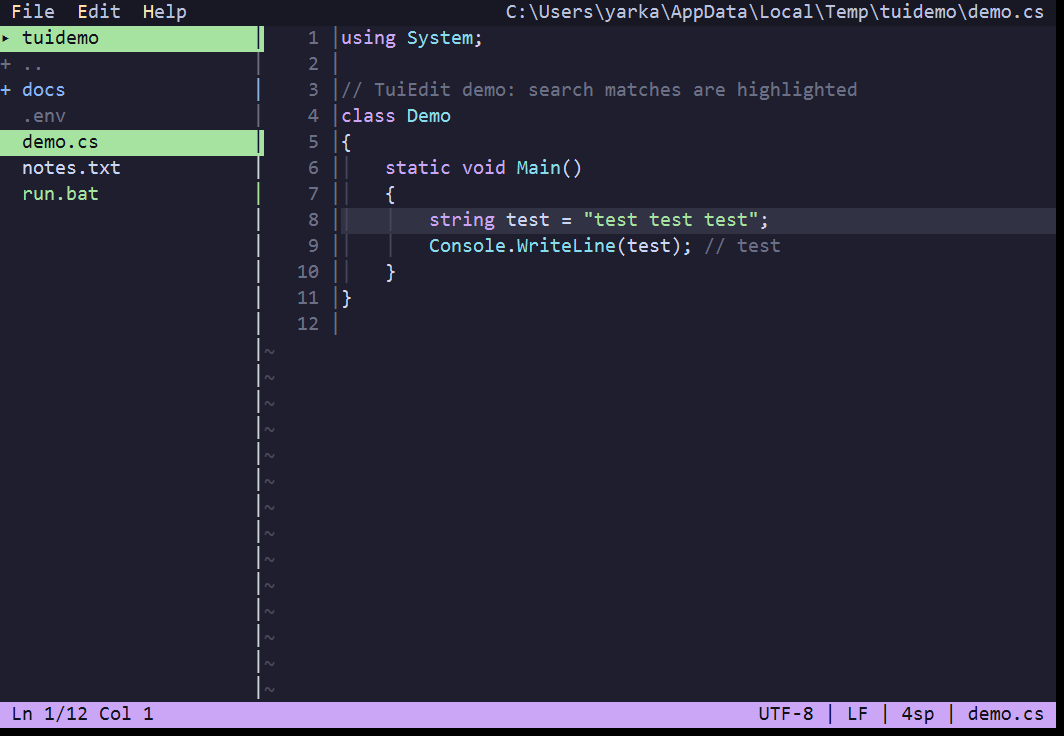
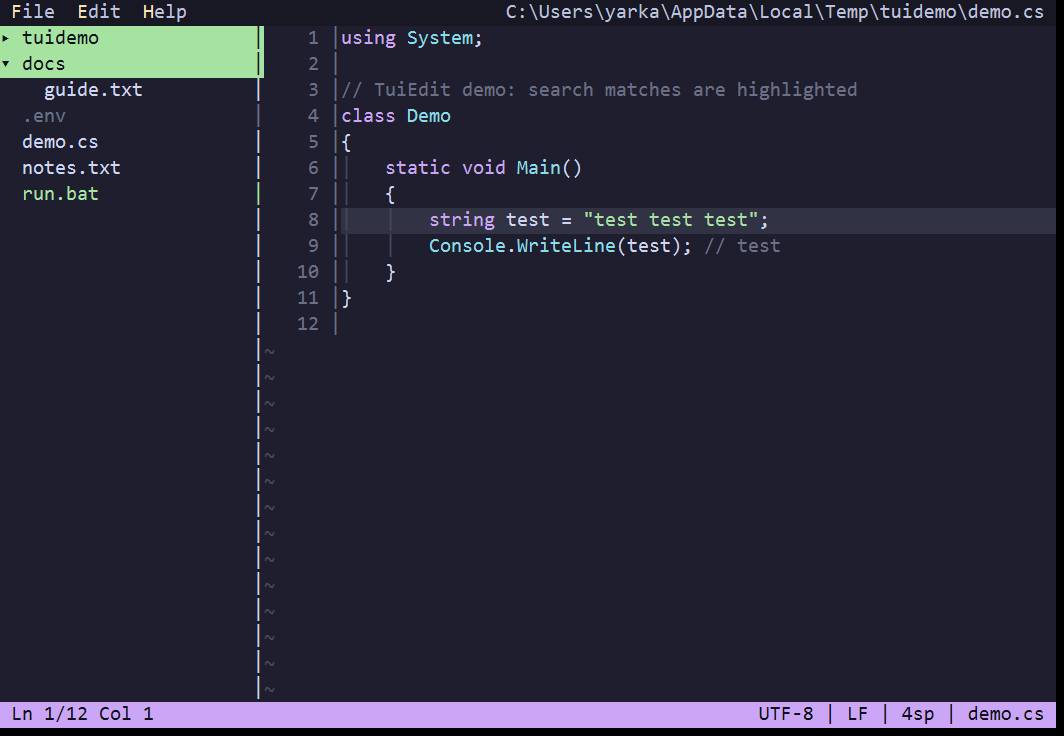
docs(shots): fresh sidebar/replace/palette/prompt frames, README refresh

Changed region(s): [[0.0, 0.0625, 0.2481, 0.2188]]

diff --git a/README.md b/README.md
@@ -8,15 +8,15 @@ See [CHANGELOG.md](CHANGELOG.md) for release history.
 ## Features
 
 - Editing: undo/redo (per keystroke and per block), `Shift+arrows` selection, cut/copy/paste line (`^K`, `^C`, `^U`/`^V`), duplicate (`^D`), toggle line comment (`Ctrl+/`), matching-bracket highlight and jump (`Alt+]`), move lines (`Alt+↑/↓`), word-wise delete/move, trim trailing whitespace, sort lines, auto-pairs for brackets/quotes (toggle in Settings).
-- Find (`^F`, `F3`/`Shift+F3`): live highlight while typing, wrap-around, `k/N` counter, match case / whole words / regex toggles right in the prompt (`Alt+C/W/R`). Instant whole-document replace (`^H`) in a single undo step, with confirmation past 50 matches. Grep across files (`Ctrl+Shift+F`) with jump-to-hit.
+- Find (`^F`, `F3`/`Shift+F3`): live highlight while typing, wrap-around, `k/N` counter, match case / whole words / regex toggles right in the prompt (`Alt+C/W/R`). Instant whole-document replace (`^H`) in a single undo step, with confirmation past 50 matches showing a before/after preview of the first hit. Grep across files (`Ctrl+Shift+F`) with jump-to-hit.
 - Syntax highlighting from JSON grammars (C#, Python, JavaScript/TypeScript, JSON, Markdown, PowerShell, XML, INI built in). On first run the grammars are extracted to the `grammars` folder next to `settings.json` — edit them to customize, drop in your own.
-- File manager for Open/Save as: drives, `..`, file highlight with sizes, overwrite confirmation in a separate window. `F7` new folder, `F8` delete (with confirmation, recursive), `Ctrl+H` hidden files. Name field and Find/Replace/GoTo prompts share one line editor: selection (`Shift`), word-wise motion (`Ctrl+arrows`), word delete (`Ctrl+BS/Del`), `Alt+←/→` navigation in the manager.
+- File manager for Open/Save as: drives, `..`, file highlight with sizes, overwrite confirmation in a separate window. `F7` new folder, `F2` rename, `F8` delete (with confirmation, recursive), `Ctrl+H` hidden files. Name field and Find/Replace/GoTo prompts share one line editor: selection (`Shift`), word-wise motion (`Ctrl+arrows`), word delete (`Ctrl+BS/Del`), `Alt+←/→` navigation in the manager.
 - Format preservation: encoding (UTF-8/BOM/UTF-16), line endings (CRLF/LF/CR) and indent are detected on open and kept on save; all three are switched in the File format dialog (`F9`, shown in the status bar). Read-only files are flagged `[read-only]` and refuse to save.
 - `dark`/`light` themes, `en`/`ru` languages, line numbers (`Alt+N`), word wrap (`Alt+Z`), indent guides, whitespace marks (`Alt+.`), ruler column, git diff gutter, help screen (`F1`).
 - Bookmarks (`F2` toggle, `Shift+F2` next, gutter `●`), indent folding (`Alt+-`), buffer-word completion (`Ctrl+Space`), document stats (`F4`).
-- Optional session restore: reopen the previous tabs with cursor positions when started without arguments (off by default, toggle in Settings).
-- File panel (`Ctrl+B`): fixed-width sidebar with the current folder, arrows to select, `Enter` to open, `Esc` back to text. Entries are color-coded: dirs, `..`, hidden and executables.
-- Tabs: open tab bar (`Ctrl+T` new, `Ctrl+W` close, `Ctrl+PgDn/PgUp` switch, `Alt+1..9,0` jump, `Ctrl+P` list); long rows scroll with the active tab always visible; dirty tabs ask on close, quitting walks through them one by one. Quick-open files by name across the project (`Alt+O`), command line (`F12`: `set`, `goto`, `find`, `save`, `quit`).
+- Optional session restore: reopen the previous tabs with cursor positions when started without arguments (off by default, toggle in Settings); dirty untitled tabs round-trip with their content.
+- File tree (`Ctrl+B`): fixed-width sidebar with an expandable folder tree (`Enter`/`←`/`→`), git change marks (folders aggregate), `Enter` opens files, `Esc` back to text. `F7` new file/folder, `F2` rename, `Del` delete with two-step confirm. Entries are color-coded: dirs, hidden and executables.
+- Tabs: open tab bar (`Ctrl+T` new, `Ctrl+W` close, `Ctrl+PgDn/PgUp` switch, `Alt+1..9,0` jump, `Ctrl+P` list); long rows scroll with the active tab always visible; dirty tabs ask on close, quitting walks through them one by one. Quick-open files by name across the project (`Alt+O`), command line (`F12`: `set` incl. `encoding`/`ending`/`indent`, `goto`, `find`, `save`, `quit`).
 - Split view (`Alt+S`): two or more panes side by side, each with its own tabs; `F6`/`Shift+F6` or `Ctrl+1..9` move focus (tab keys act on the focused pane).
 - System clipboard via OSC52 (Windows Terminal): `^C` copies, paste with `Ctrl+V`.
 
@@ -34,7 +34,7 @@ Ctrl+/ toggle line comment  Alt+] matching bracket
 arrows/Home/End/PgUp/PgDn, Ctrl+arrows — by word, Alt+up/down — move line
 Enter — new line, Tab — indent, Shift+Tab — unindent
 F10 or Alt+F/E/H — menu (arrows/Enter/Esc, letter hotkey)
-F1 — help   Alt+N — line numbers   Alt+Z — word wrap   Ctrl+B — file panel
+F1 — help   Alt+N — line numbers   Alt+Z — word wrap   Ctrl+B — file tree (arrows/Enter, F7 new, F2 rename, Del delete)
 F9 — file format (encoding / line endings)   F4 — document stats   F5 — command palette (commands, menus, settings search)   F12 — command line
 F2 — bookmark   Shift+F2 — next bookmark   Alt+- — fold   Ctrl+Space — complete
 Ctrl+PgDn — next tab   Ctrl+PgUp — prev (Ctrl+Tab where the terminal passes it)
@@ -63,6 +63,10 @@ Full list: `tui-edit --help` or `F1` in the editor.
 | Tabs | Split |
 |---|---|
 | ![Tabs](docs/shots/tabs.png) | ![Split](docs/shots/split.png) |
+
+| Replace | Palette | Prompt |
+|---|---|---|
+| ![Replace](docs/shots/replace.png) | ![Palette](docs/shots/palette.png) | ![Prompt](docs/shots/prompt.png) |
 
 ![Help](docs/shots/help.png)
 
@@ -128,7 +132,8 @@ Key names: letters, digits, `F1`–`F24`, `Up`/`Down`/`Left`/`Right`,
 punctuation (`.`, `/`, `-`, …) or raw `ConsoleKey` names (`OemPeriod`).
 A printable key requires `Ctrl` or `Alt` (bare letters would break typing);
 unknown commands and bad entries are ignored. On conflict the later entry
-wins. Menu hints follow your bindings automatically.
+wins. Menu hints follow your bindings automatically. Edited files apply
+live without restart.
 
 ## Backups
 
@@ -228,11 +233,17 @@ times out safely.
 ## Structure
 
 ```text
-Program.cs            entry, --help/--version, editor startup
+Program.cs            entry, composition root (services wired explicitly)
 Core/TextBuffer.cs    buffer: lines, undo/redo, find/replace, encodings
+Core/Startup.cs       CLI plan, --help/--version printers, terminal restore
 Core/LineField.cs     single-line field: text, cursor, selection (prompts, picker)
 Core/CliArgs.cs       CLI file:line parsing
+Core/CommandLine.cs   F12 mini-language: set/goto/find/save/quit
 Core/Completion.cs    buffer-word completion candidates
+Core/CrashLog.cs      crash reports to temp (never throws)
+Core/FileOps.cs       create/rename/recursive delete (no-throw results)
+Core/FileIndex.cs     quick-open index: cycle-safe BFS, natural sort
+Core/FileKind.cs      entry classification shared by sidebar/manager/grep
 Core/Grep.cs          file search: recursive, hidden/binary skipped
 Core/Folding.cs       indent folding ranges
 Core/DocTab.cs        tab: buffer + view state (cursor, scroll, selection)
@@ -240,38 +251,64 @@ Core/Pane.cs          split pane: own tabs, active tab, tab scroll
 Core/Grammar.cs       syntax grammars: seeded folder, JSON plugins + registry
 Core/BracketMatcher.cs bracket pairs (skips strings/comments via highlighter)
 Core/SyntaxHighlighter.cs tokenizer (match/begin-end) with cache
+Core/SidebarTree.cs   lazy file tree: expand/collapse, mtime refresh
 Core/WordMotion.cs    word-wise motion (VS Code style)
 Core/TabStops.cs      tabs + WordWrap (soft-wrap segments)
 Core/EditorCommand.cs editor commands
-Input/KeyMap.cs       keys → commands
-Input/InputReader.cs  input + bracketed paste
-Ui/TuiEditor.cs       engine: render, menu, dialog outcomes
-Ui/Dialog.cs          window base: frame, centering, loop (inheritance)
+Core/GitProcess.cs    bounded git spawn (never hangs w/o console)
+Core/GitStatus.cs     status-bar segment (facade over GitService)
+Core/GitDiff.cs       gutter marks + porcelain parse (facade over GitService)
+Core/SystemClipboard.cs OSC52 export (Windows Terminal)
+Core/AutoPair.cs      bracket/quote auto-pairs
+Core/Selection.cs     text selection model
+Core/NaturalSort.cs   file2-before-file10 comparison
+Services/             explicit services: GitService, HighlightService,
+                      SystemClipboardService (manual DI, no container)
+Input/KeyMap.cs       keys → commands (facade over KeyBindingTable)
+Input/KeyBindingTable.cs per-editor binding table + keybindings.json
+Input/KeyBindings.cs  notation parse/format
+Input/InputParser.cs  pure stdin machine (fuzz-tested)
+Input/InputReader.cs  console wiring: conhost pump, blocking read
+Input/MouseInput.cs   SGR/conhost mouse events
+Ui/TuiEditor.cs       engine root: run loop, settings, services
+Ui/TuiEditor.Render.cs frame render (RenderFrame is headless-testable)
+Ui/TuiEditor.Input.cs key/mouse dispatch (table-driven CommandDispatcher)
+Ui/TuiEditor.Files.cs tabs/panes/session/sidebar files
+Ui/TuiEditor.Cursor.cs motion/edit/fold/bookmark
+Ui/TuiEditor.Search.cs find/replace/grep/command-line flows
+Ui/TuiEditor.Modal.cs modal outcomes, drafts, restore
+Ui/CommandDispatcher.cs command → handler table
+Ui/CommandPalette.cs  F5 palette (menus, commands, settings, files)
+Ui/Dialog.cs          window base: frame, centering (inheritance)
 Ui/ModalDialog.cs     popups over ModalState
+Ui/PromptDialog.cs    single-line prompt (sidebar create/rename)
 Ui/FileDialog.cs      manager over FilePickerState
 Ui/SettingsDialog.cs  settings over SettingsDialogState
 Ui/FormatDialog.cs    file format (encoding / line endings)
 Ui/HelpDialog.cs      help: titled sections, scroll
-Ui/Screen.cs          frame diff-buffer (no flicker)
+Ui/Screen.cs          frame buffer + diff output (Snapshot for goldens)
 Ui/FilePicker.cs      file manager (pure model)
 Ui/Modal.cs           modal popups (pure model)
 Ui/SettingsDialogState.cs settings dialog state (pure model)
-Ui/SidebarState.cs    file panel model: listing, highlight, scroll (pure model)
-Config/               AppSettings + SettingsStore (JSON)
+Ui/SidebarState.cs    sidebar facade over SidebarTree
+Ui/EditorLayout.cs    screen geometry (single source for render+mouse)
+Ui/Terminal.cs        VT/mouse/focus/raw-input sequences
+Ui/Loc.cs             localization (en/ru)
+Ui/StatusBar.cs       status line builder
+Ui/Menu.cs            menu bar model
+Ui/Rgb.cs             truecolor + 16-color fallback
+Ui/Theme.cs           built-in themes
+Config/               AppSettings + SettingsStore (JSON, atomic saves)
 Config/BackupStore.cs versioned backups next to settings.json (5 per file, 7 days)
 Config/ThemeScheme.cs   custom themes: schemes, hex, catalog
 Resources/            strings.ru/en.json (key parity required)
-TuiEdit.Tests/        xUnit tests (dotnet test): buffer, find, dialogs, resources
+TuiEdit.Tests/        xUnit tests incl. Goldens/ snapshots (UPDATE_GOLDENS=1)
+TuiEdit.Bench/        BenchmarkDotNet core benchmarks (docs/perf-baseline.md)
+docs/                 shots + perf-baseline
 ```
 
 Help (`F1`) is also a dialog (`HelpDialog` over `Dialog`):
 «File / Find / Edit / Navigation / Menu / View / Manager» sections,
 arrow-key scroll. The About window holds only the name, version,
 release date, author and license — no key hints.
-
-Frames for `docs/` are rendered by a separate tool next to the project:
-
-```powershell
-dotnet run --project ../TuiEdit.Shots -- docs/shots_new
-```
 
